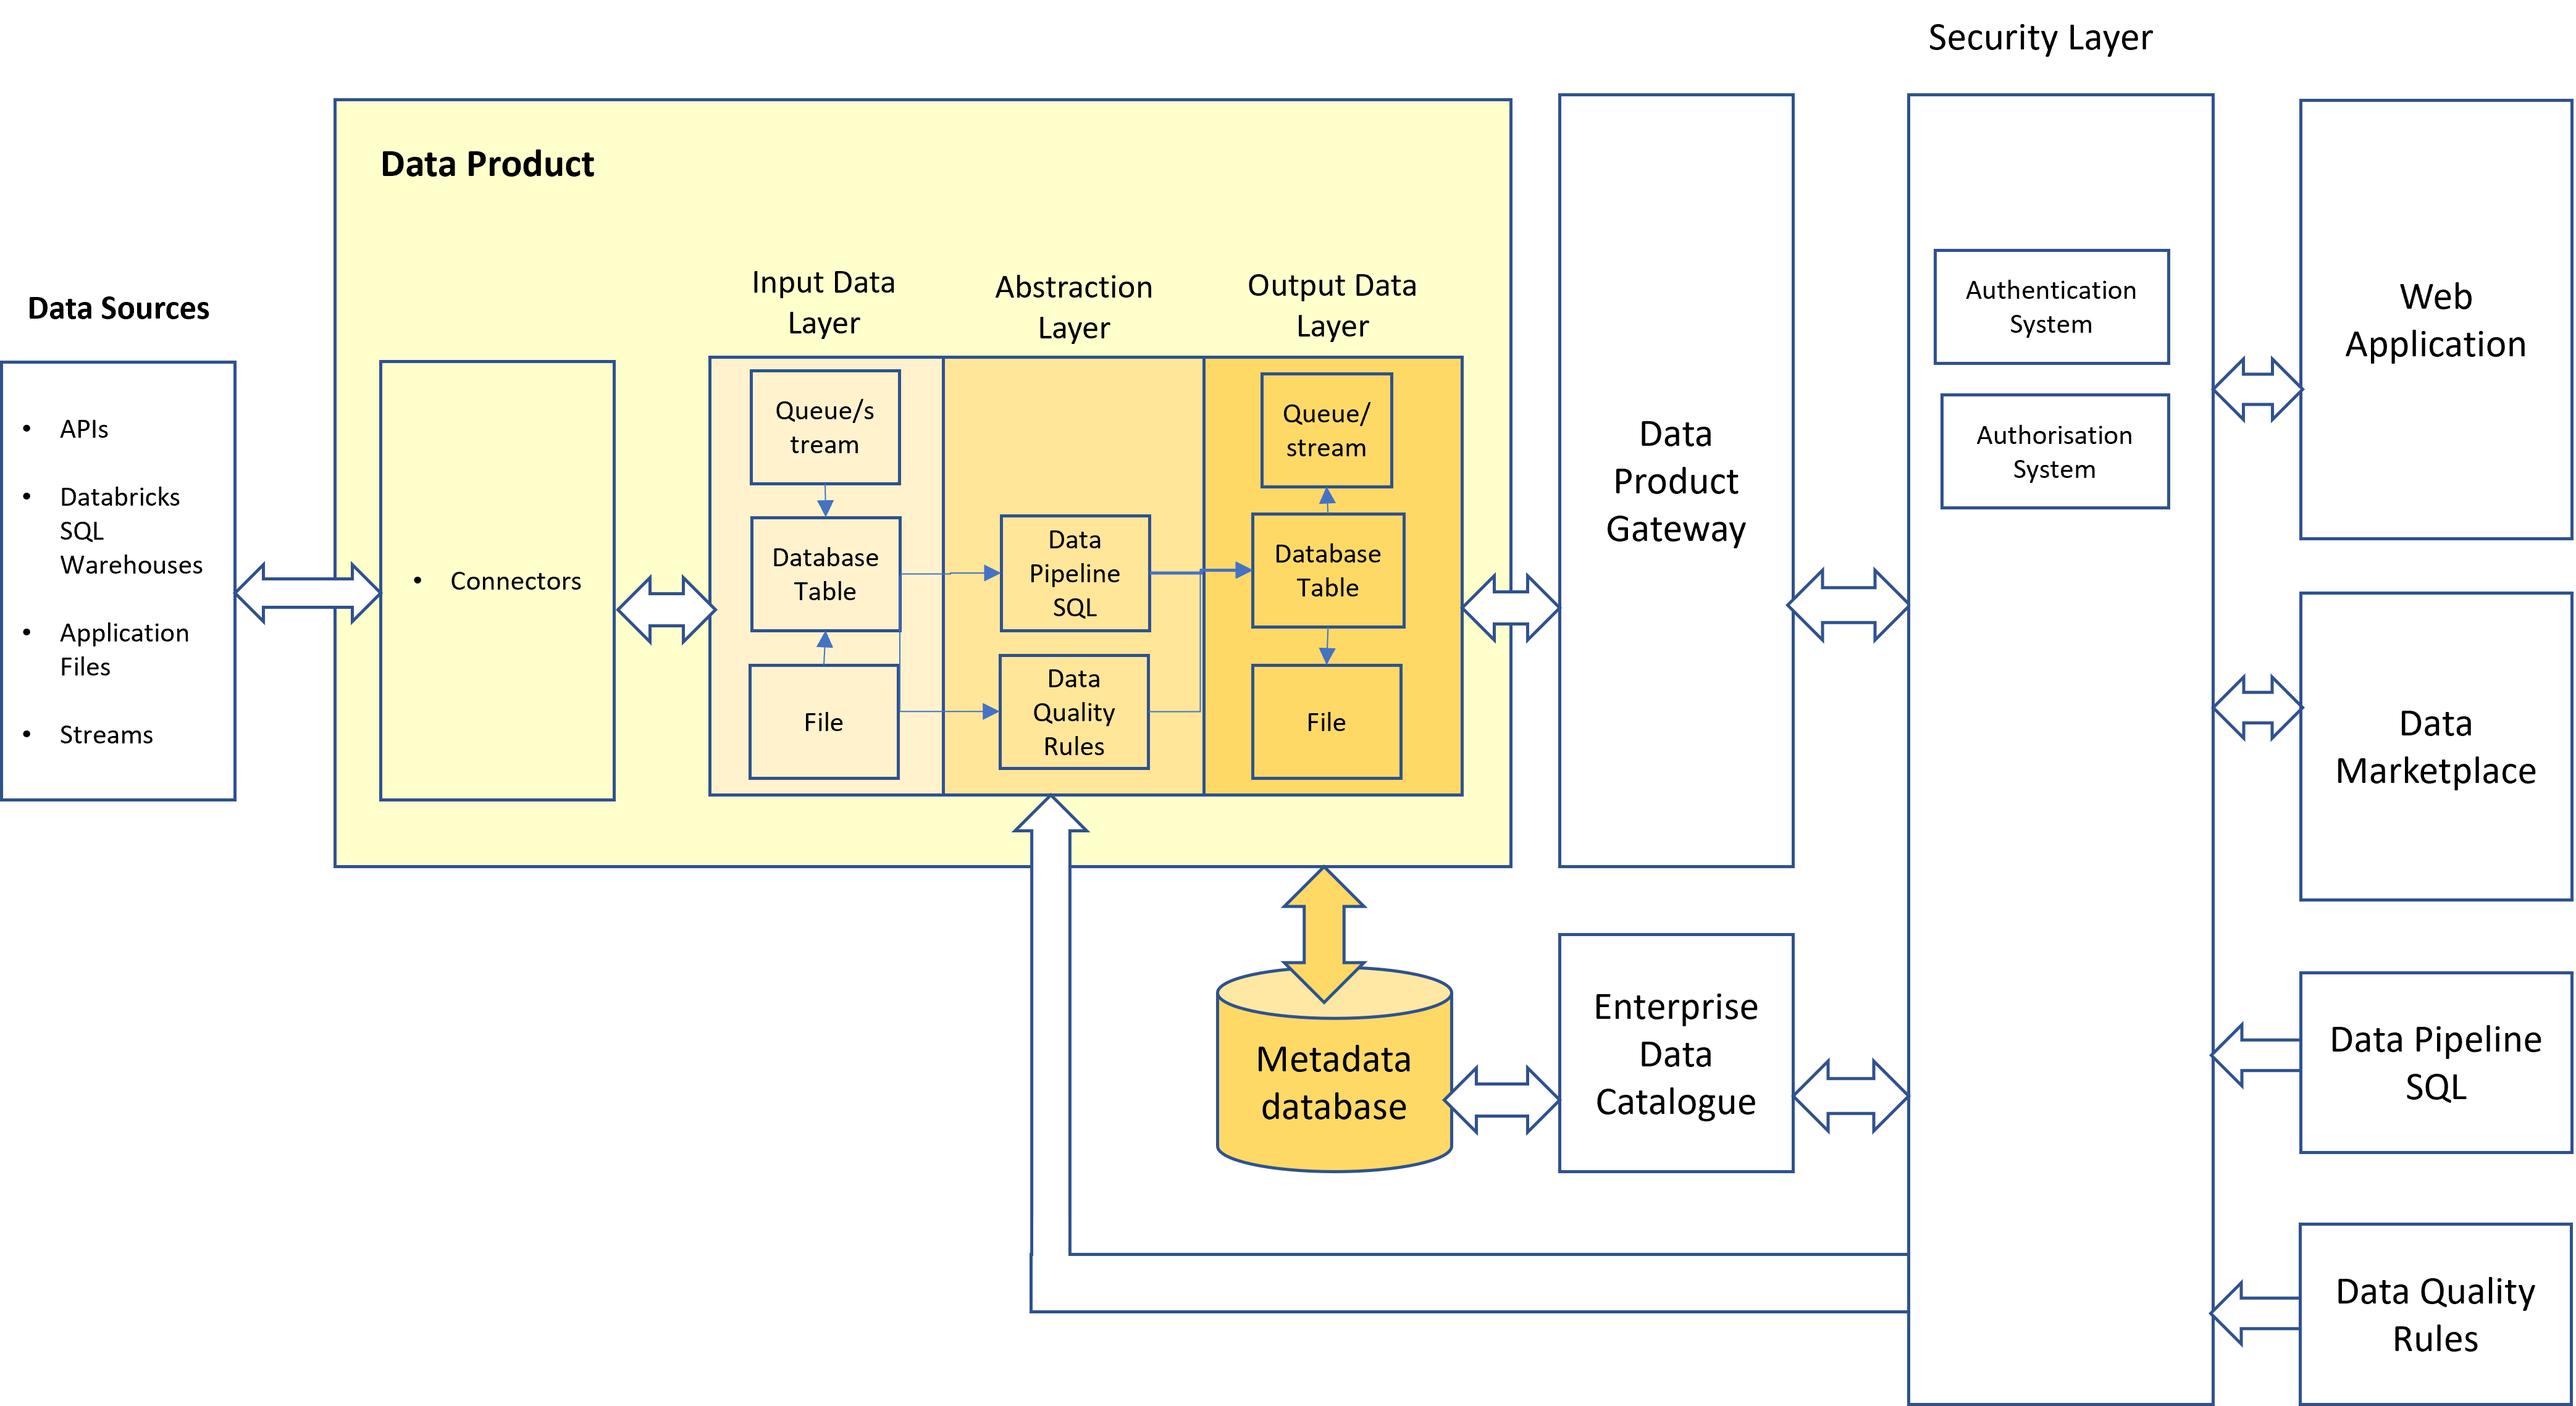
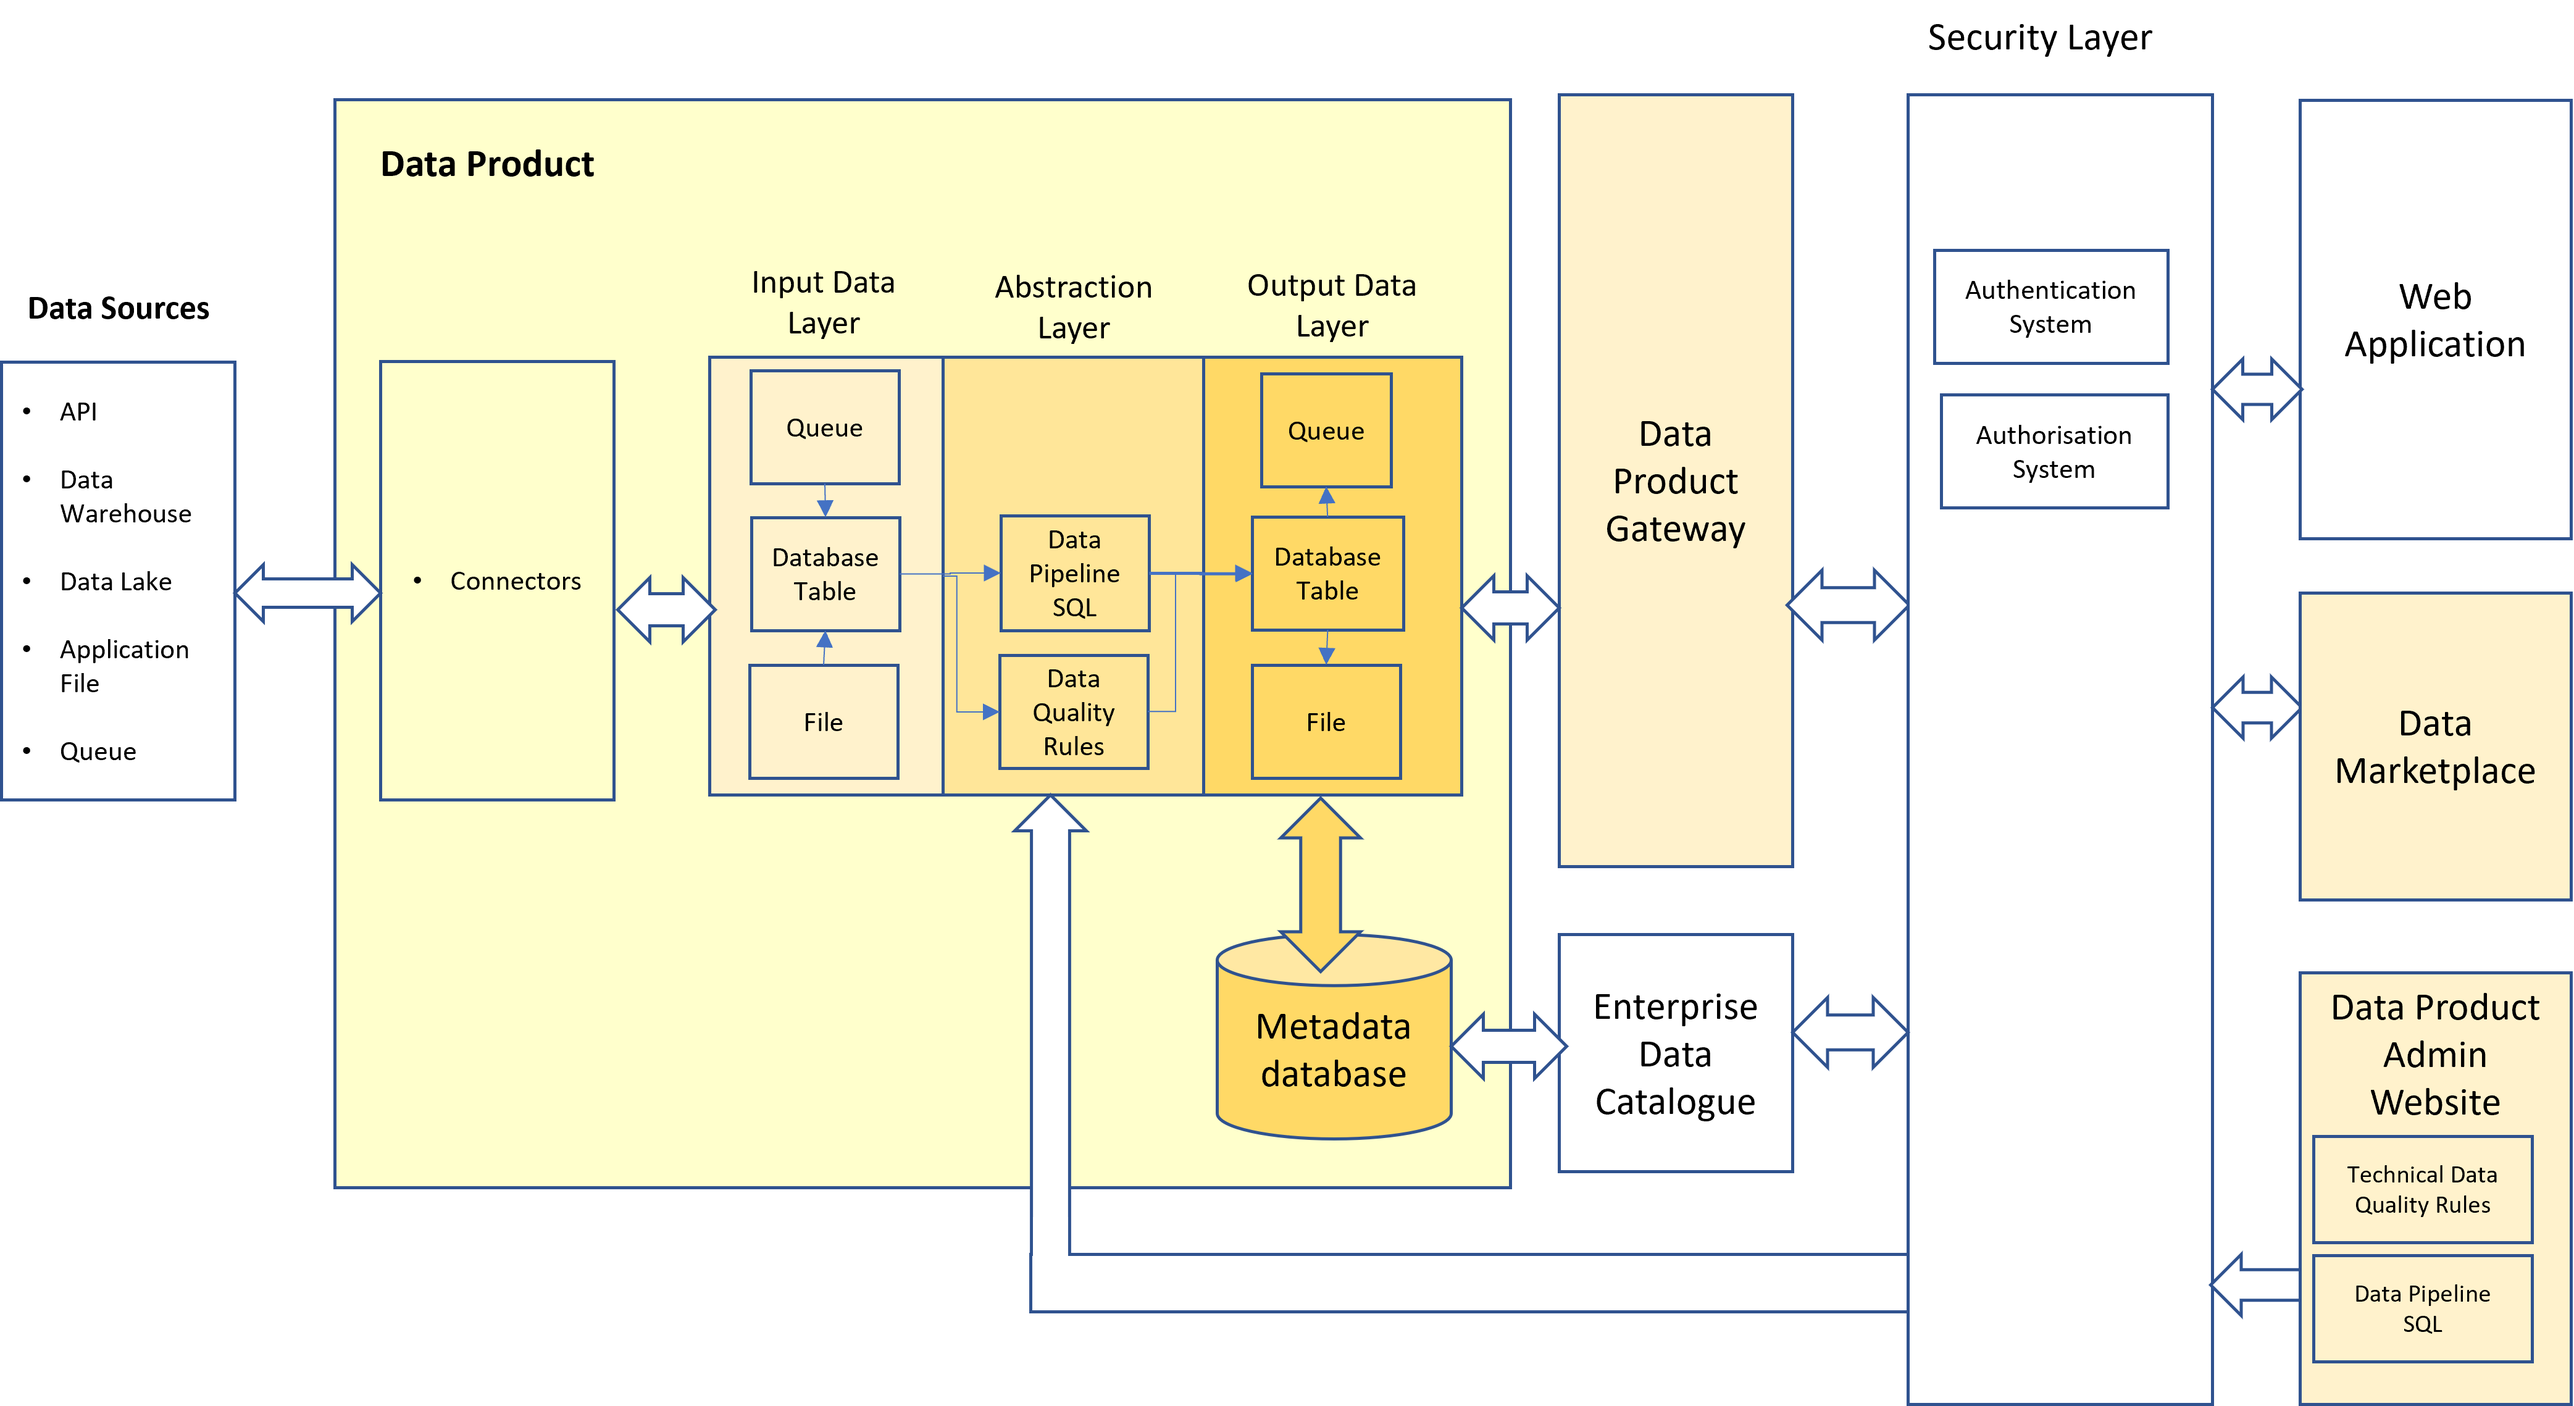
Updated the arch diagrams and improved the definition of the data product types

diff --git a/main.py b/main.py
@@ -1,0 +1,5 @@
+from os import listdir
+from os.path import isfile, join
+mypath="."
+onlyfiles = [f for f in listdir(mypath) if f.endswith(".md")]
+for f in onlyfiles: print(" ..\dataproductpoc-docs\%s: ''"%f)

diff --git a/dp-types.md b/dp-types.md
@@ -2,9 +2,11 @@
 
 | Data Product Category | Data Product Type | Data Product Subtype | 
 |:----------------------|:------------------|:--------------------:|
-| Pull                  | API               |         REST         |
-| Pull                  | API               |       GraphQL        |
-| Pull                  | Streaming         |    Message Queue     |  
+| Request-Response      | API               |         REST         |
+| Request-Response      | API               |       GraphQL        |
+| Request-Response      | Query             |         SQL          |
+| Request-Response      | Storage           |         File         |
+| Streaming             | Queue             |       Message        |  
 
 
 Data Products can be broadly grouped into categories that describe how a data consumer wishes to access the data
@@ -14,11 +16,40 @@ APIs are used for Request-Response type scenarios
 i.e where a data consumer (user or application) wants a dataset and the API responds by providing the dataset.
 Request-Response calls can either be single calls to an API or batched.
 
-## Near Realtime Data Updates
+### REST API
+A REST API is the best known method for a consuming application to request data synchronously from a backend service.
+This typically works well for small datasets. Query & Field parameters can be defined to filter on data that is returned.
+
+### GraphQL
+A GraphQL API is an attempt to overcome some of the limitations in REST API in that a REST API developer has to code lots of filters to provide 
+desired functionality from a consuming application. That means re-work and may affect downstream systems. 
+GraphQL allows the consuming application to POST a query message which allows for selection of a subset of data and filters to be applied.
+
+### SQL Queries
+Another type of Request-Response tech are SQL queries being issued to a backend relational database, warehouse or SQL endpoint for a data lake. 
+In this scenario, the SQL Query generator posts the sql query via a Native/ODBC/JDBC driver and waits for a dataset to be returned as a result.
+The significant advantage over the API approach is simply that SQL is much better known than GraphQL and is more powerful in that you can group, sort, filter, join freely
+
+### Files
+In a scenario where a data consumer simply wants to retrieve a file, this is also typically achieved via a http GET request followed by the file sent back as a reponse. Other technologies e.g. ftp or tcp can also be used. 
+
+## Streaming
 Another common scenario is where an application service needs real time updates of changes of data from source. 
 For example, an application service could be written that emails a new customer. 
 The new customer could be initially registered on a sales system e.g. Salesforce 
 and the sales system then pushes notifications of new customers via a stream or queue to the email application service
+
+### Queues
+Queues allow near real-time data updates to be provided by a data producer and consumed <strong>asynchronously</strong> by a data consumer. 
+Queues differentiate from REST APIs in that they:-
+1. Provide asynchronous delivery i.e. a data consumer can fetch data when they want.
+2. Buffer data
+3. Use TCP rather than HTTP as the underlying transport protocol
+
+Apache Kafka is the best known streaming technology that provides this functionality. 
+It was originally developed for the Hadoop platform and is open source, but most organisations will use a cloud hosted version of Kafka because:-
+1. Kafka is difficult to setup and administer
+2. Hosted kafka solutions will provide clustering, security and resiliency.
 
 ### Why cannot data products be categorised on the way they are sourced?
 A data product can source and combine data from a variety of data source types. 

diff --git a/dp-architecture.md b/dp-architecture.md
@@ -43,18 +43,26 @@ global sales data product. This allows for increasingly complex data products to
 The data product will have the following capabilities:-
 1. Can pull data (via connectors) from:-
    * Files on cloud storage
-   * Databricks SQL Warehouse (aka SQL endpoints)
-   * Files in Data Lakes
+   * Relational Database sources e.g. Azure Synapse
+   * Data Lake SQL endpoints e.g. Databricks SQL Warehouse
+   * File Storage
    * Datasets provided by other APIs
-2. Can have data pushed (via connectors) by:-
-   * Applications into Files and/or a Relational database table
-   * Applications into Queues/Streams
-3. Will be performance managed by an API gateway
-4. The Data Product gateway will:-
-   * Communicate with authentication and authorisation systems to only allow authorised systems & users to access a particular endpoint
-   * Standardise URL addressing
+2. Can have data pushed (via connectors) by Applications into:-
+   * Files
+   * A Relational database table
+   * A Queue/Steam
+3. Can pull data into Files, a Relational Table or a Queue/Stream from:- 
+   * SQL Endpoints
+   * File Storage
+   * Other APIs
+   * Relational database sources
+4. Can import the data captured in the Input Data Layer into Relational Database Tables 
+5. Will allow data pipeline sql to be securely injected and executed which will move data from the input connectors to the output data layer for consumption by the web application.
+6. Can provide the data to data consumers as either:-
+   * Files
+   * Queues
+4. Will be performance managed by a Data Product gateway
 5. Will record it's metadata in a relational database that can feed an enterprise data catalogue.
-6. Will be published on a data marketplace
-7. Will allow data pipeline sql to be securely injected and executed which will move data from the input connectors to the output data layer for consumption by the web application.
-8. Will have an endpoint that allows metadata and documentation to be retrieved programatically.
+6. Will have it's metadata published on a data marketplace 
+7. Will have an endpoint that allows metadata and documentation to be retrieved programatically.
 

diff --git a/index.md b/index.md
@@ -37,6 +37,7 @@ It will cover the following topics:-
 * How to [deploy to a cloud platform](cloud-platform-deployment.md)
 * [Data Product naming and versioning standards](dp-standards.md)
    * [REST API naming and versioning standards](REST-api-standards.md)
+   * [Queue/Stream naming and versioning standards](streaming-standards.md)
    * [Data Set naming and versioning standards](ds-standards.md)
 * [Improving Performance](dp-performance.md)
 * [Capturing Metrics and Auditing](dp-audit-and-metrics.md)
